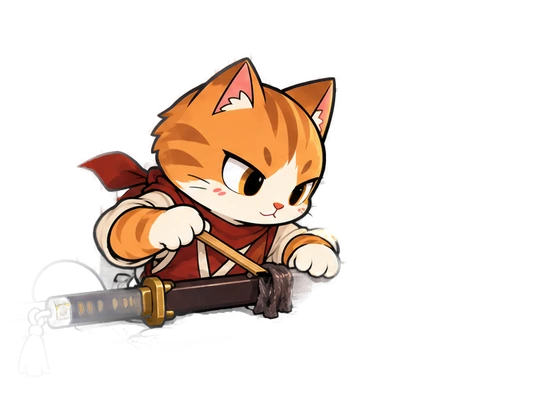
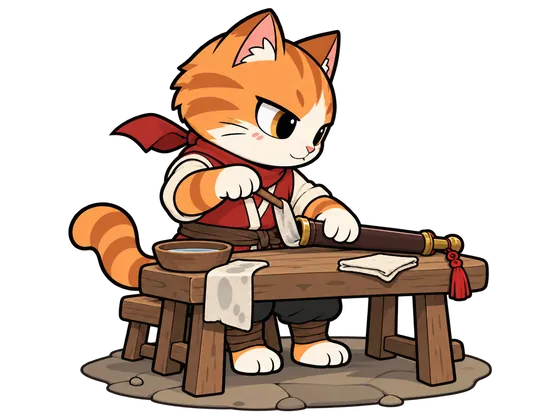
事件圖重生（第一批三張）：封封卡住的劍兩張結果圖、沒送到的藥包主圖
使用者 2026-09-24：劍浮在半空（加桌子放桌上）、手沒握著劍劍飛在空中、文字寫村貓坐在旁邊圖上沒有村貓。
- 選項一：劍平放在木桌上，封封坐在桌邊用木片挑內襯
- 選項二：右手握住劍柄、劍尖朝地，左手按著扭到的手腕
- 主圖：翻倒的貨箱旁坐著村貓（照結果圖那隻），腳上纏著髒布
新工具 tools/regen_event_art.py：工單 docs/審查報告/2026-09-24_事件圖重生/jobs.json，每張提示詞多兩條
（東西不能浮空、拿著就要握住；文字寫到的角色一定畫出來）。同名覆蓋，不動素材清單；舊圖備份在生圖資料夾。
其他事件圖全面審圖中，審完照同一套重生。

diff --git a/tools/regen_event_art.py b/tools/regen_event_art.py
@@ -1,0 +1,230 @@
+"""事件圖重生（2026-09-24）。
+
+使用者抓到：封封卡住的劍那兩張結果圖劍浮在半空、手沒握著劍；沒送到的藥包文字寫「村貓坐在旁邊」圖上沒有村貓；
+說「問題很多，其他圖也要檢查，有問題就重生」。九個審圖代理逐張比對圖與文字（報告在
+`docs/審查報告/2026-09-24_事件圖重生/`），判「重生」的整理成工單 `jobs.json`：
+
+    { "<檔名，不含 .webp>": { "hero": "fengfeng", "scene": "<英文：誰在場、在做什麼、道具放在哪、手怎麼拿>",
+                               "style": "bg/event_xxx.webp", "refs": [["bg/event_yyy.webp", "<英文：這張參考圖給什麼>"]],
+                               "why": "<中文：原本錯在哪>" } }
+
+參考圖：① 這隻的新版待機第 1 格（長相只照它）② `style`：同一隻畫得對的另一張事件圖（只取畫風）
+③ `refs`：配角或道具的長相（例如另一張畫得對的村貓）。`hero` 是 `none` 的（連線限定、四隻共用的那幾張）不附①、不畫主角。
+提示詞沿用 `gen_content_batch1_art.py` 的頭尾（真透明、只畫寫到的角色、不要字），另外每張都加
+`PHYSICS`（東西不能浮空、拿著就要握住）與 `CAST`（寫到的角色一定要畫出來）——這次抓到的錯全是這兩類。
+
+用法：
+    python tools/regen_event_art.py refs                          # 四隻的待機參考圖
+    python tools/regen_event_art.py prompt <名>
+    python tools/regen_event_art.py gen <名>... [--jobs 4] [--note "修正說明"]
+    python tools/regen_event_art.py gen --all --jobs 6
+    python tools/regen_event_art.py pick <名> <第幾次> [--force]   # 裁、縮、覆蓋 public/assets/bg/<名>.webp（舊圖先備份）
+    python tools/regen_event_art.py sheet <輸出.png> [名...]       # 每列：舊圖｜每一次重生（聯絡表）
+每一次生圖都存成 `<名>.try<N>.png`（不覆蓋），提示詞記在 `prompts.json`、選定紀錄在 `picks.json`。
+清單鍵與檔名都沒變（同名覆蓋），不用登記素材清單；建置時檔名雜湊會跟著內容換。
+"""
+from __future__ import annotations
+
+import argparse
+import hashlib
+import json
+import re
+import shutil
+import subprocess
+import sys
+import time
+from concurrent.futures import ThreadPoolExecutor
+from pathlib import Path
+
+import numpy as np
+from PIL import Image
+
+sys.path.insert(0, str(Path(__file__).resolve().parent))
+import gen_content_batch1_art as c1  # noqa: E402
+from gen_rest_art import LOOK, idle_frame, on_white  # noqa: E402
+
+ROOT = c1.ROOT
+SOURCE = ROOT / 'tools/motion-art-source/regen0924'
+REF = SOURCE / '_ref'
+OLD = SOURCE / '_old'
+PROMPTS = SOURCE / 'prompts.json'
+PICKS = SOURCE / 'picks.json'
+JOBS = ROOT / 'docs/審查報告/2026-09-24_事件圖重生/jobs.json'
+ASSETS = ROOT / 'public/assets'
+BG = c1.BG
+
+PHYSICS = (
+    'PHYSICS - everything obeys gravity: every prop either rests on something that is drawn (the small floor patch, '
+    'a table, a bench, a shelf, a crate, a rack) or is firmly held. NOTHING floats in mid-air. When a character holds '
+    'something, the paw visibly wraps around it - the pads closed on the grip, the object sitting IN the paw, not '
+    'hovering next to it. A sword that is being drawn or held has its hilt inside the closed paw.\n'
+)
+CAST = (
+    'CAST - every character named in the SCENE is clearly visible, whole and recognisable (not cropped, not hidden '
+    'behind a prop, not shrunk to a speck). If the scene says someone is sitting beside the hero, draw them sitting '
+    'right beside the hero.\n'
+)
+NONE_HEAD = (
+    'Create one new EVENT ILLUSTRATION for a cute cat-ninja card game. It is a cut-out vignette: only the '
+    'characters and the few props of the scene (with at most a small patch of floor or steps under them), on a '
+    'truly transparent background.\n'
+    'Reference image 1 is an existing event illustration from this game: copy its ART STYLE (bold dark hand-drawn '
+    'outlines, flat colours with soft cel shading, chunky cute chibi proportions) and the way the scene is cut out on '
+    'a transparent background. Do NOT copy its composition or its props.\n'
+    'This picture is shared by every player, so it shows NONE of the four hero cats (no cat with a navy headband, no '
+    'cat with a purple bow and ponytail, no black-and-white cat with copper bracers, no orange tabby with a red scarf '
+    'and sword).\n'
+)
+
+
+def jobs() -> dict[str, dict]:
+    return json.loads(JOBS.read_text(encoding='utf-8'))
+
+
+def hero_of(name: str, job: dict) -> str:
+    if job.get('hero'):
+        return job['hero']
+    m = re.match(r'event_(feifei|dangdang|fengfeng)_', name)
+    return m.group(1) if m else 'ninja'
+
+
+def ref_png(rel: str, box: tuple[int, int] = (1024, 768)) -> Path:
+    """`public/assets` 底下的相對路徑 → 鋪白底的參考圖（快取在 _ref）。"""
+    out = REF / (rel.replace('/', '__').rsplit('.', 1)[0] + '.png')
+    if not out.exists():
+        REF.mkdir(parents=True, exist_ok=True)
+        c1.white(Image.open(ASSETS / rel), box).save(out)
+    return out
+
+
+def refs_for(name: str) -> list[Path]:
+    job = jobs()[name]
+    hero = hero_of(name, job)
+    out = [] if hero == 'none' else [REF / f'idle_{hero}.png']
+    out.append(ref_png(job['style']))
+    out += [ref_png(r) for r, _ in job.get('refs', [])]
+    return out
+
+
+def prompt_for(name: str) -> str:
+    job = jobs()[name]
+    hero = hero_of(name, job)
+    if hero == 'none':
+        head, first_extra = NONE_HEAD, 2
+    else:
+        look = LOOK[c1.LOOK_KEY[hero]].replace('dark-brown face mask', 'dark-brown face markings')
+        head, first_extra = c1.EVENT_HEAD.format(name=c1.HERO_NAME[hero], look=look), 3
+    extra = ''.join(f'Reference image {first_extra + i} shows {what}\n' for i, (_, what) in enumerate(job.get('refs', [])))
+    tail = c1.EVENT_TAIL.replace('Only the characters named above appear - no other cats, no extra copies of the hero, '
+                                 'no enemies, no master.', 'Only the characters named in the SCENE appear - no other '
+                                 'cats, no extra copies of anyone.')
+    rules = '' if hero == 'none' else c1.hero_rules(hero)
+    return head + extra + f'SCENE: {job["scene"]}\n' + PHYSICS + CAST + tail + rules
+
+
+def refs() -> None:
+    REF.mkdir(parents=True, exist_ok=True)
+    for hero in c1.HEROES:
+        on_white(idle_frame(c1.LOOK_KEY[hero]), .8).save(REF / f'idle_{hero}.png')
+    print(f'參考圖已輸出到 {REF}')
+
+
+def generate(name: str, note: str = '') -> tuple[str, int, str]:
+    with c1._LOCK:
+        attempt = 1
+        while (SOURCE / f'{name}.try{attempt}.png').exists() or (SOURCE / f'{name}.try{attempt}.pending').exists():
+            attempt += 1
+        (SOURCE / f'{name}.try{attempt}.pending').write_text('', encoding='utf-8')
+    target = SOURCE / f'{name}.try{attempt}.png'
+    text = prompt_for(name) + (f'\n{note}' if note else '')
+    command = [sys.executable, str(c1.IMAGE_GEN), 'edit', '--backend', 'codex-oauth', '--model', 'gpt-image-1.5',
+               '--background', 'transparent', '--size', '1536x1024', '--quality', 'high', '--prompt', text]
+    for ref in refs_for(name):
+        command += ['--image', str(ref)]
+    command += ['--out', str(target), '--force']
+    started = time.time()
+    status = 'failed'
+    for _ in range(5):
+        result = subprocess.run(command, capture_output=True, text=True, encoding='utf-8', errors='replace')
+        if result.returncode == 0 and target.exists():
+            status = 'ok'
+            break
+        status = f'failed: {result.stderr.strip()[-300:]}'
+        if 'capacity' not in result.stderr:   # 伺服器滿載才等一下重試（codex_gen.py 坑 9）
+            break
+        time.sleep(30)
+    (SOURCE / f'{name}.try{attempt}.pending').unlink(missing_ok=True)
+    c1.record(PROMPTS, name, {'attempt': attempt, 'status': status, 'prompt': text,
+                              'refs': [p.name for p in refs_for(name)], 'at': time.strftime('%Y-%m-%d %H:%M:%S')})
+    return name, attempt, f'{status}（{time.time() - started:.0f} 秒）'
+
+
+def pick(name: str, attempt: int, force: bool = False) -> None:
+    src = SOURCE / f'{name}.try{attempt}.png'
+    if not src.exists():
+        raise SystemExit(f'找不到 {src.name}')
+    raw = Image.open(src).convert('RGBA')
+    errs = c1.gate(name, raw)
+    if errs and not force:
+        raise SystemExit(f'{name} 第 {attempt} 次沒過閘門：' + '；'.join(errs))
+    cleaned, dropped = c1.clean(raw, .0015)
+    out_img = c1.fit_event(cleaned)
+    target = BG / f'{name}.webp'
+    OLD.mkdir(parents=True, exist_ok=True)
+    if target.exists() and not (OLD / target.name).exists():
+        shutil.copy2(target, OLD / target.name)   # 只備份第一次的舊圖（原本線上那張）
+    out_img.save(target, 'WEBP', quality=80, method=6)
+    data = target.read_bytes()
+    with c1._LOCK:
+        picks = json.loads(PICKS.read_text(encoding='utf-8')) if PICKS.exists() else {}
+        picks[name] = {'attempt': attempt, 'file': target.relative_to(ROOT).as_posix(), 'bytes': len(data),
+                       'droppedSpecks': dropped, 'gate': errs, 'sha256': hashlib.sha256(data).hexdigest(),
+                       'at': time.strftime('%Y-%m-%d %H:%M:%S')}
+        PICKS.write_text(json.dumps(dict(sorted(picks.items())), ensure_ascii=False, indent=2) + '\n', encoding='utf-8')
+    print(f'{name} 採用第 {attempt} 次 → {target.relative_to(ROOT).as_posix()}（{len(data)} 位元組，清掉碎點 {dropped} 塊）')
+
+
+def sheet(out: Path, names: list[str]) -> None:
+    """每一列：舊圖（有備份用備份，沒有用現在那張）＋每一次重生；透明處鋪格紋。"""
+    rows = []
+    for n in names:
+        old = OLD / f'{n}.webp' if (OLD / f'{n}.webp').exists() else BG / f'{n}.webp'
+        tries = sorted(SOURCE.glob(f'{n}.try*.png'), key=lambda p: int(p.stem.rsplit('try', 1)[1]))
+        rows.append([old, *tries])
+    cols = max(len(r) for r in rows)
+    blank = SOURCE / '_blank.png'   # 補空格用，讓每一列對齊
+    Image.new('RGBA', (4, 3), (0, 0, 0, 0)).save(blank)
+    c1.contact([f for r in rows for f in r + [blank] * (cols - len(r))], out, 300, cols)
+
+
+def main() -> None:
+    ap = argparse.ArgumentParser()
+    ap.add_argument('cmd', choices=['refs', 'prompt', 'gen', 'pick', 'sheet'])
+    ap.add_argument('args', nargs='*')
+    ap.add_argument('--jobs', type=int, default=4)
+    ap.add_argument('--note', default='')
+    ap.add_argument('--all', action='store_true')
+    ap.add_argument('--force', action='store_true')
+    a = ap.parse_args()
+    SOURCE.mkdir(parents=True, exist_ok=True)
+    if a.cmd == 'refs':
+        refs()
+    elif a.cmd == 'prompt':
+        print(prompt_for(a.args[0]))
+        print('參考圖：', [p.name for p in refs_for(a.args[0])])
+    elif a.cmd == 'gen':
+        names = list(jobs()) if a.all else a.args
+        unknown = [n for n in names if n not in jobs()]
+        if unknown:
+            raise SystemExit(f'工單裡沒有：{unknown}')
+        with ThreadPoolExecutor(a.jobs) as ex:
+            for name, attempt, status in ex.map(lambda n: generate(n, a.note), names):
+                print(f'{name} 第 {attempt} 次：{status}', flush=True)
+    elif a.cmd == 'pick':
+        pick(a.args[0], int(a.args[1]), a.force)
+    elif a.cmd == 'sheet':
+        sheet(Path(a.args[0]), a.args[1:] or list(jobs()))
+
+
+if __name__ == '__main__':
+    main()
